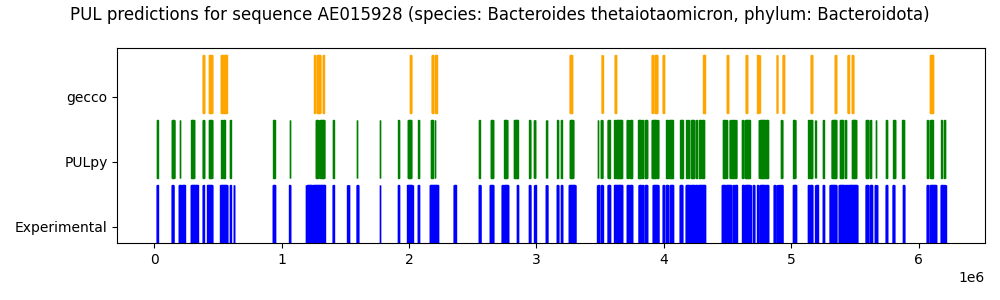
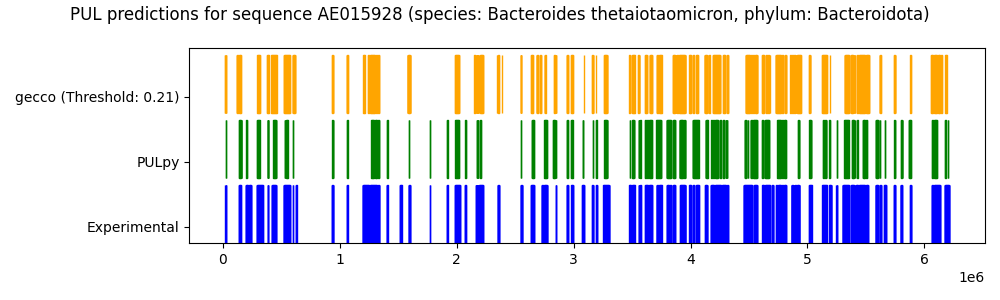
improve plotting, add plots

diff --git a/src/scripts/evaluate_predictions.py b/src/scripts/evaluate_predictions.py
@@ -7,6 +7,7 @@ from sklearn.metrics import classification_report, confusion_matrix, precision_r
 import seaborn as sns
 from utility_scripts import join_gene_and_PUL_table
 from matplotlib_venn import venn3
+from tqdm import tqdm
 
 class PredictionEvaluator:
     """
@@ -34,6 +35,30 @@ class PredictionEvaluator:
         self.pred = self.labeled_results[fold].select(polars.col("is_PUL_pred")).fill_null(False).to_series().to_list()
         self.p_pred = self.labeled_results[fold].select(polars.col("average_p")).fill_null(0.0).to_series().to_list()
         self.pulpy_pred = self.labeled_results[fold].select(polars.col("is_PUL_pulpy")).fill_null(False).to_series().to_list()
+
+
+    def recompute_predictions(self, fold, threshold):
+        self.labeled_results[fold] = self.labeled_results[fold].with_columns(
+            polars.when(polars.col("average_p") >= threshold).then(True).otherwise(False).alias("is_PUL_pred")
+        )
+        self.set_evaluation_data(fold)
+
+
+    def aggregate_all_folds(self):
+        # aggregate all folds into one table for overall evaluation
+        print("Aggregating all folds for overall evaluation...")
+        all_labeled_tables = []
+        for fold in range(len(self.labeled_results)):
+            all_labeled_tables.append(
+                self.labeled_results[fold]
+                .join(self.clusters_table.select("sequence_id", "phylum", "species").unique(), on="sequence_id", how="left")
+                .with_columns(
+                    polars.col("start_pred").cast(polars.Int64, strict=False),
+                    polars.col("end_pred").cast(polars.Int64, strict=False),
+                )
+            )
+        self.labeled_results = [polars.concat(all_labeled_tables)] # keep as list
+        self.get_pulpy_annotations("src/data/results/pulpy_annotations.tsv") # re-join with pulpy annotations after concatenation
 
 
     def get_pulpy_annotations(self, pulpy_annotations_path):
@@ -85,29 +110,32 @@ class PredictionEvaluator:
 
     def calculate_mmc(self, true, pred, thresholds):
         mmc_scores = []
-        for threshold in thresholds:
+        for threshold in tqdm(thresholds, desc="Calculating MCC for thresholds"):
             binary_pred = [1 if p >= threshold else 0 for p in pred]
             mmc = matthews_corrcoef(true, binary_pred)
             mmc_scores.append(mmc)
 
         best_mmc_idx = np.argmax(mmc_scores)
         best_threshold = thresholds[best_mmc_idx]
-        
-        return mmc_scores[best_mmc_idx], best_threshold, best_mmc_idx
+        binary_pred = [1 if p >= best_threshold else 0 for p in pred]
+        pr_mmc = precision_recall_curve(true, binary_pred, drop_intermediate=True)
+        return mmc_scores[best_mmc_idx], best_threshold, (pr_mmc[1][1], pr_mmc[0][1])
 
 
-    def plot_pr(self, true, pred, label, color, ax):
+    def plot_pr(self, true, pred, label, color, ax, plot_mcc=False):
         if len(true) == 0 or len(pred) == 0:
             print(f"Warning: No data to plot for {label}. Skipping PR curve.")
             return
 
-        precision, recall, thresholds = precision_recall_curve(true, pred)
+        precision, recall, thresholds = precision_recall_curve(true, pred, drop_intermediate=True)
         auc = average_precision_score(true, pred)
-        ax.plot(recall, precision, label=label + " (AP: {:.2f})".format(auc), color=color)
+        ax.plot(recall, precision, label=label + " (AP: {:.2f})".format(auc), color=color, alpha=0.8)
 
-        # Matthews correlation coefficient
-        # mcc, threshold, mmc_idx = self.calculate_mmc(true, pred, thresholds)        
-        # plt.scatter(recall[mmc_idx], precision[mmc_idx], label=label + " (Best MCC: {:.2f} at threshold {:.2f})".format(mcc, threshold), color=color, marker='X', s=100)
+        if plot_mcc:
+            # Matthews correlation coefficient
+            mcc_thresholds = np.linspace(0, 1, num=20)
+            mcc, threshold, pr_point = self.calculate_mmc(true, pred, mcc_thresholds)        
+            plt.scatter(pr_point[0], pr_point[1], label=f"Best MCC: {round(mcc, 2)}, threshold {round(threshold, 2)}", color=color, marker='X', s=100)
 
 
     def plot_pr_dot(self, true, pred, label, color, ax):
@@ -115,30 +143,32 @@ class PredictionEvaluator:
             print(f"Warning: No data to plot for {label}. Skipping PR curve.")
             return
 
-        precision, recall, thresholds = precision_recall_curve(true, pred)
+        precision, recall, thresholds = precision_recall_curve(true, pred, drop_intermediate=True)
         auc = average_precision_score(true, pred)
         ax.scatter(recall[1], precision[1], label=label + " (AP: {:.2f})".format(auc), color=color)
 
 
     def precision_recall_curve(self, fold):
         fig, ax = plt.subplots(1, 1, figsize=(8, 6))
-        self.set_evaluation_data(fold)
+        if fold == "all":
+            self.aggregate_all_folds()
+            self.set_evaluation_data(0)
+
         # standardize predicted probabilities to be between 0 and 1
         self.p_pred = (self.p_pred - np.min(self.p_pred)) / (np.max(self.p_pred) - np.min(self.p_pred)) 
 
         # use similar colors for associated curves
         colors = plt.cm.tab20.colors
 
-        # ----- PR CURVE ----- #
         # for true vs pred
-        self.plot_pr(self.true, self.p_pred, "True vs " + self.model_name, colors[0], ax)
+        self.plot_pr(self.true, self.p_pred, "True vs " + self.model_name, colors[0], ax, plot_mcc=True)
         # for pulpy vs pred
         self.plot_pr(self.pulpy_pred, self.p_pred, "PULpy vs " + self.model_name, colors[1], ax)
         self.plot_pr_dot(self.true, self.pulpy_pred, "True vs PULpy", colors[4], ax)
         baseline = sum(self.true) / len(self.true) if len(self.true) > 0 else 0
 
         # then filter by phylum and plot again
-        self.filter_phylum("Bacteroidota", fold)
+        self.filter_phylum("Bacteroidota", fold if fold != "all" else 0)
         self.plot_pr(self.true, self.p_pred, "True vs " + self.model_name + " (Bacteroidota)", colors[2], ax)
         self.plot_pr(self.pulpy_pred, self.p_pred, "PULpy vs " + self.model_name + " (Bacteroidota)", colors[3], ax)
 
@@ -152,6 +182,7 @@ class PredictionEvaluator:
         ax.set_title(f"Precision-Recall Curve for {self.model_name} (on {self.split} set, fold {fold})")
         plt.savefig(f"{self.output_path}/pr_curve_{self.model_name}_{self.split}_{fold}.png")
         plt.clf()
+
 
     def roc_curve(self, true, p_pred, label, color):
         if len(true) == 0 or len(p_pred) == 0:
@@ -207,7 +238,9 @@ class PredictionEvaluator:
         plt.clf()
 
     
-    def visualize_predictions_in_genome(self, sequence_id, fold):
+    def visualize_predictions_in_genome(self, sequence_id, fold, threshold):
+        self.recompute_predictions(fold, threshold)
+
         # get all genes of this sequence
         genes = self.labeled_results[fold].filter(polars.col("sequence_id") == sequence_id)
         sequence_length = self.clusters_table.filter(polars.col("sequence_id") == sequence_id).select("length").to_series().to_list()[0]
@@ -234,7 +267,7 @@ class PredictionEvaluator:
             axs.fill_betweenx([y, y + 0.9], start, end, color=colors[label], alpha=1)
 
         axs.set_ylim(0, 3)
-        axs.set_yticks([0.25, 1.25, 2.25], ["Experimental", "PULpy", self.model_name])
+        axs.set_yticks([0.25, 1.25, 2.25], ["Experimental", "PULpy", f"{self.model_name} (Threshold: {threshold})"])
         plt.suptitle(f"PUL predictions for sequence {sequence_id} (species: {species}, phylum: {phylum})")
         plt.tight_layout()
         os.makedirs(f"{self.output_path}/predictions_in_genome/", exist_ok=True)
@@ -316,11 +349,12 @@ if __name__ == "__main__":
     #evaluator.venn_diagram()
     #evaluator.f1_per_fold()
 
-    for fold in range(args.k):
-        evaluator.precision_recall_curve(fold)
-        evaluator.plot_roc_curves(fold)
+    # for fold in range(args.k):
+    #     evaluator.precision_recall_curve(fold)
+    #     evaluator.plot_roc_curves(fold)
+    #evaluator.precision_recall_curve("all")
 
-    evaluator.visualize_predictions_in_genome("AE015928", 0)
+    evaluator.visualize_predictions_in_genome("AE015928", 0, 0.21)
 
 
     """

diff --git a/src/scripts/gecco.py b/src/scripts/gecco.py
@@ -152,6 +152,7 @@ class GECCOHandler:
             self._predict(genome_path, model_path, output_path)
 
         train_genomes = polars.read_csv(train_clusters, separator='\t').select("sequence_id").unique()
+        # TODO: create HMMs file for these domains
         for train_genome in train_genomes.to_series().to_list():
             genome_path = f"src/data/genomes/selected_genomes/{train_genome}.fa"
             output_path = f"{self.output_dir}/fold_{fold}/{train_genome}"
